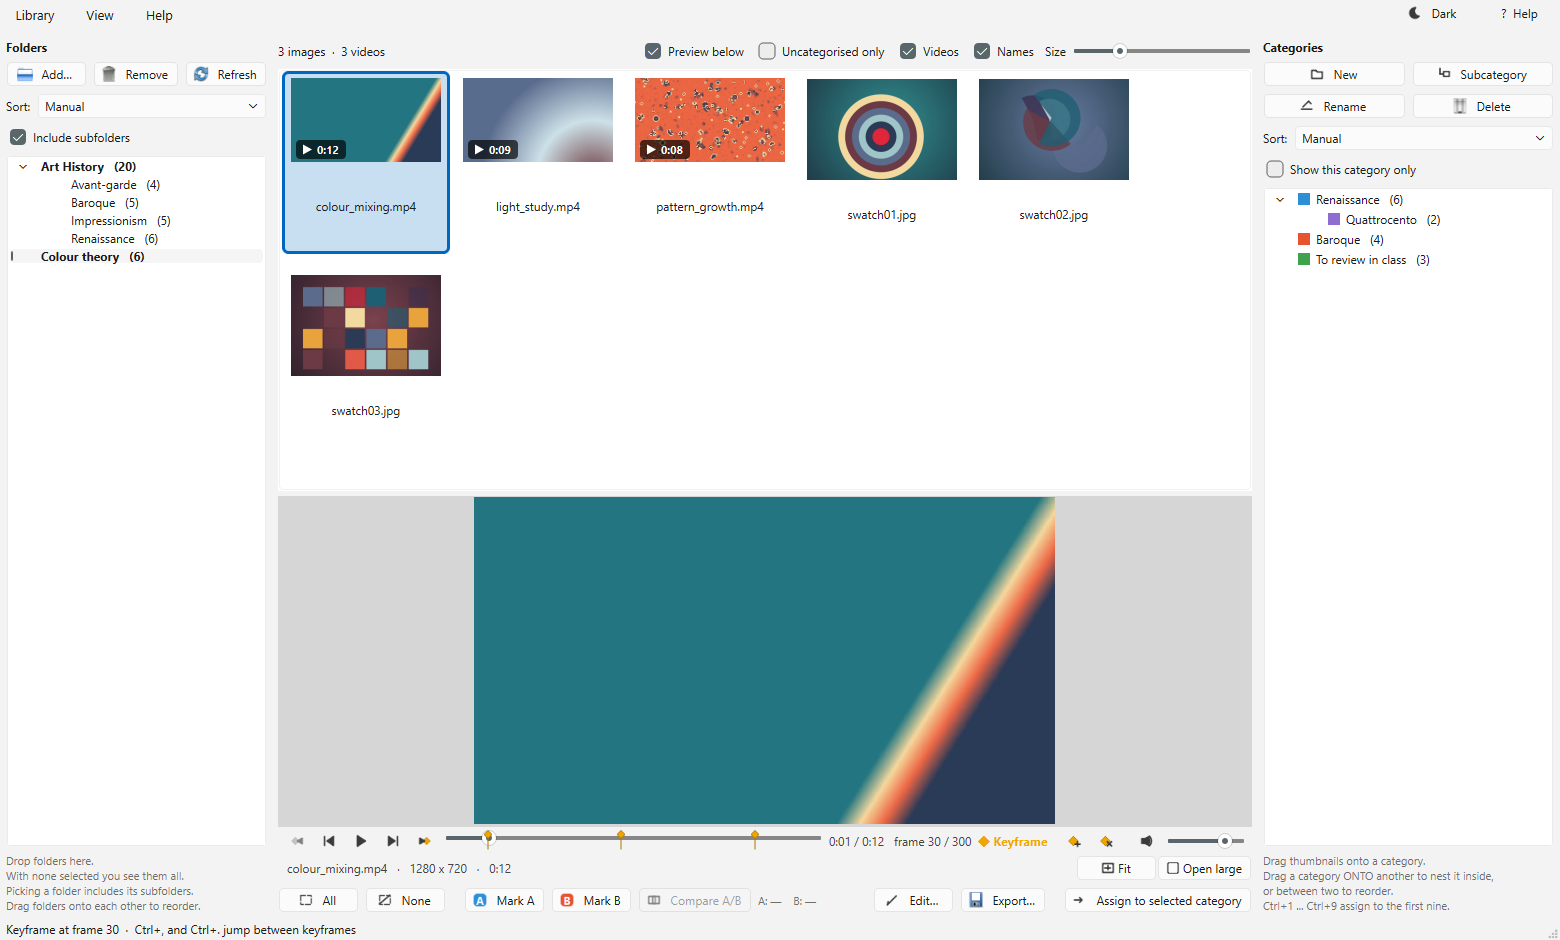
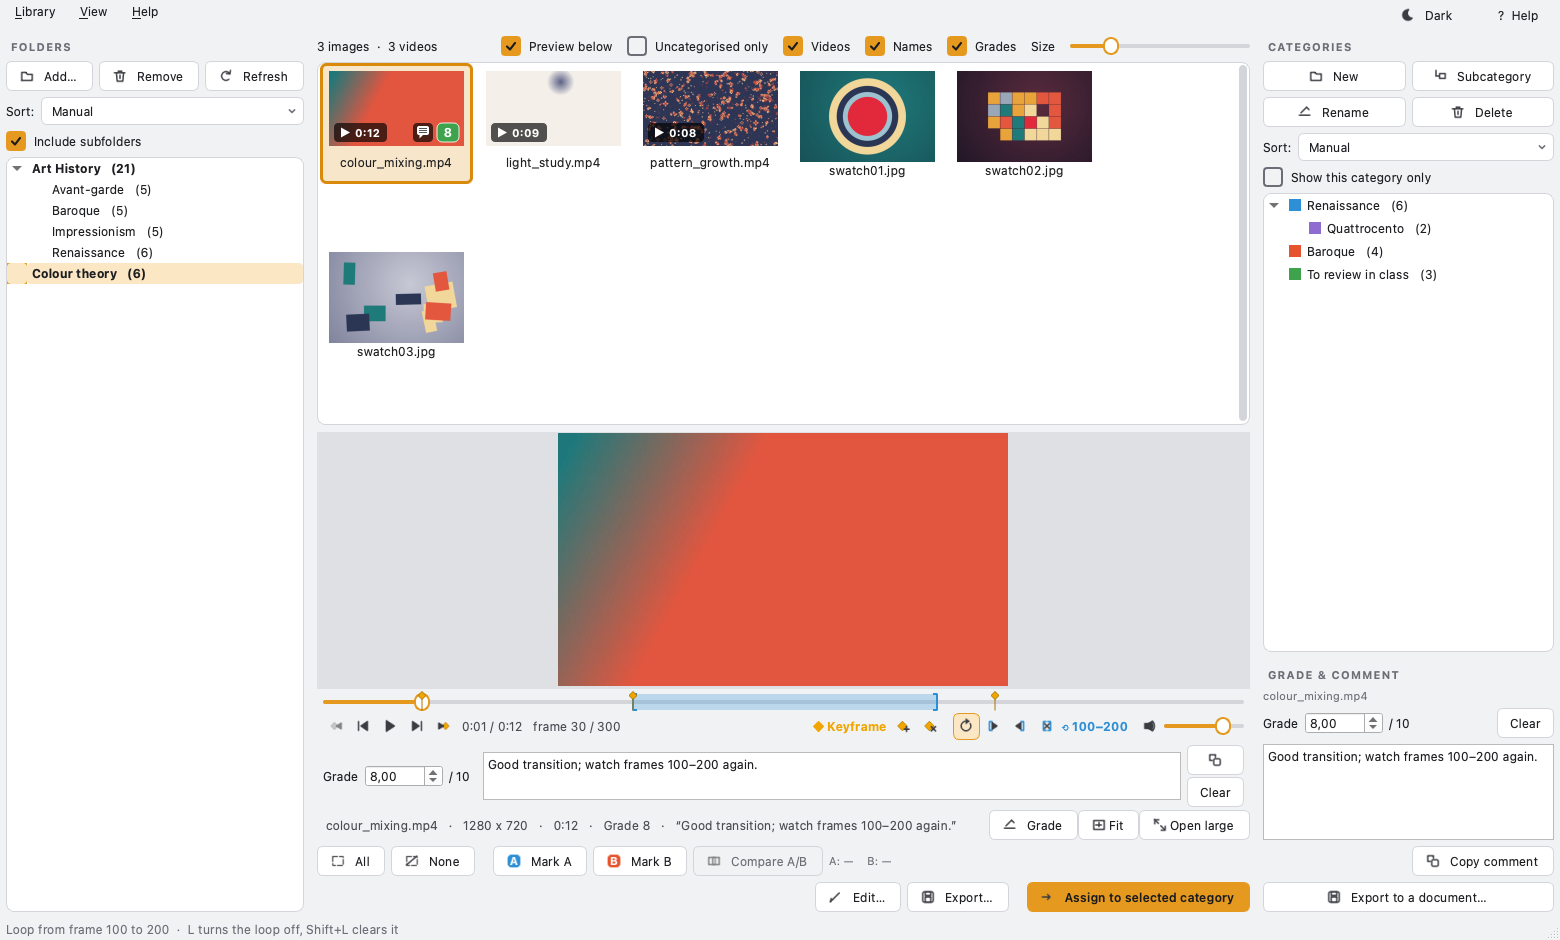
Refresh README screenshots for 1.5.1
The screenshots dated from 1.3.1, before the new interface. They are
retaken from 1.5.1 at the same sizes (1560x940 and 1150x880):

- screenshot.png: grades and comment bubbles on the thumbnails, a GIF,
  the grade bar under the preview and the Grades checkbox.
- compare.png: the A/B comparison.
- editor.png: a plate straightened and annotated in the new editor.
- video.png: keyframes and a loop fragment on the time bar, with the
  video's grade, in the light theme.

A new grades.png shows a GIF graded in the large window with a loop
fragment; it goes into the grades section of the README.

As before, everything is drawn from generated abstract plates, a GIF and
clips: no personal image or path appears. Each window is rendered
straight into a 1:1 image rather than grabbed from the screen.

diff --git a/README.md b/README.md
@@ -85,6 +85,8 @@ or a **Word document**.
 Untick *Grades* (or `Ctrl+G`) to hide them all — handy before projecting in
 class; nothing is deleted.
 
+![Grading a GIF in the large window, with a loop fragment on the frame bar](docs/grades.png)
+
 **A/B comparison**
 Mark one image as **A** and another as **B** — the marks stay put while you
 browse other folders — and the two are overlaid with an **opacity slider** to
@@ -125,7 +127,7 @@ show as amber diamonds on the time bar, jump from one to the next, are saved
 with the library and undo with `Ctrl+Z`. Every button shows its shortcut when
 you hover over it.
 
-![A video on a keyframe, with keyframes marked on the time bar, in the light theme](docs/video.png)
+![A video on a keyframe, with keyframes and a loop fragment on the time bar and its grade below, in the light theme](docs/video.png)
 
 **Dark or light**
 The **Light / Dark** button in the top-right corner, *View ▸ theme* or
